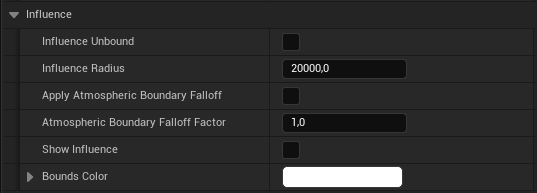
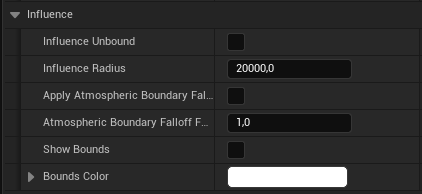
chore(docs): refresh docs

diff --git a/site/aero-sim/actors/index.html b/site/aero-sim/actors/index.html
@@ -998,9 +998,9 @@
 
 
 <h1 id="actors">Actors<a class="headerlink" href="#actors" title="Permanent link">&para;</a></h1>
-<p>This section provides an overview of the <strong>Aero Sim</strong> actor's and properties that affect the atmospheric composition.</p>
+<p>This section provides an overview of the <strong>Aero Sim</strong> actor's and properties that affect the atmospheric composiwidth="400"tion.</p>
 <h2 id="atmosphere">Atmosphere<a class="headerlink" href="#atmosphere" title="Permanent link">&para;</a></h2>
-<p><a class="glightbox" href="../../assets/images/aero-sim/atmosphere1.PNG" data-type="image" data-width="100%" data-height="auto" data-desc-position="bottom"><img alt="Atmosphere" src="../../assets/images/aero-sim/atmosphere1.PNG" width="500" /></a></p>
+<p><a class="glightbox" href="../../assets/images/aero-sim/atmosphere1.PNG" data-type="image" data-width="100%" data-height="auto" data-desc-position="bottom"><img alt="Atmosphere" src="../../assets/images/aero-sim/atmosphere1.PNG" /></a></p>
 <table>
 <thead>
 <tr>
@@ -1018,7 +1018,7 @@
 </tbody>
 </table>
 <h3 id="calculation-options">Calculation Options<a class="headerlink" href="#calculation-options" title="Permanent link">&para;</a></h3>
-<p><a class="glightbox" href="../../assets/images/aero-sim/atmosphere2.PNG" data-type="image" data-width="100%" data-height="auto" data-desc-position="bottom"><img alt="Calculation Options" src="../../assets/images/aero-sim/atmosphere2.PNG" width="500" /></a></p>
+<p><a class="glightbox" href="../../assets/images/aero-sim/atmosphere2.PNG" data-type="image" data-width="100%" data-height="auto" data-desc-position="bottom"><img alt="Calculation Options" src="../../assets/images/aero-sim/atmosphere2.PNG" /></a></p>
 <table>
 <thead>
 <tr>
@@ -1061,7 +1061,7 @@
 </tbody>
 </table>
 <h3 id="debug">Debug<a class="headerlink" href="#debug" title="Permanent link">&para;</a></h3>
-<p><a class="glightbox" href="../../assets/images/aero-sim/atmosphere3.PNG" data-type="image" data-width="100%" data-height="auto" data-desc-position="bottom"><img alt="Debug" src="../../assets/images/aero-sim/atmosphere3.PNG" width="500" /></a></p>
+<p><a class="glightbox" href="../../assets/images/aero-sim/atmosphere3.PNG" data-type="image" data-width="100%" data-height="auto" data-desc-position="bottom"><img alt="Debug" src="../../assets/images/aero-sim/atmosphere3.PNG" /></a></p>
 <table>
 <thead>
 <tr>
@@ -1079,7 +1079,7 @@
 </tbody>
 </table>
 <h3 id="composition">Composition<a class="headerlink" href="#composition" title="Permanent link">&para;</a></h3>
-<p><a class="glightbox" href="../../assets/images/aero-sim/atmosphere4.PNG" data-type="image" data-width="100%" data-height="auto" data-desc-position="bottom"><img alt="Composition" src="../../assets/images/aero-sim/atmosphere4.PNG" width="500" /></a></p>
+<p><a class="glightbox" href="../../assets/images/aero-sim/atmosphere4.PNG" data-type="image" data-width="100%" data-height="auto" data-desc-position="bottom"><img alt="Composition" src="../../assets/images/aero-sim/atmosphere4.PNG" /></a></p>
 <table>
 <thead>
 <tr>
@@ -1102,7 +1102,7 @@
 </tbody>
 </table>
 <h3 id="influence">Influence<a class="headerlink" href="#influence" title="Permanent link">&para;</a></h3>
-<p><a class="glightbox" href="../../assets/images/aero-sim/atmosphere5.PNG" data-type="image" data-width="100%" data-height="auto" data-desc-position="bottom"><img alt="Influence" src="../../assets/images/aero-sim/atmosphere5.PNG" width="500" /></a></p>
+<p><a class="glightbox" href="../../assets/images/aero-sim/atmosphere5.PNG" data-type="image" data-width="100%" data-height="auto" data-desc-position="bottom"><img alt="Influence" src="../../assets/images/aero-sim/atmosphere5.PNG" /></a></p>
 <table>
 <thead>
 <tr>
@@ -1133,7 +1133,7 @@
 <td>Determines the rate at which atmospheric effects decrease towards the outer boundary. Higher values result in a sharper decrease.</td>
 </tr>
 <tr>
-<td>Show Influence</td>
+<td>Show Bounds</td>
 <td>Boolean</td>
 <td>Determines whether to show the boundary area visually.</td>
 </tr>
@@ -1145,7 +1145,7 @@
 </tbody>
 </table>
 <h3 id="height">Height<a class="headerlink" href="#height" title="Permanent link">&para;</a></h3>
-<p><a class="glightbox" href="../../assets/images/aero-sim/atmosphere6.PNG" data-type="image" data-width="100%" data-height="auto" data-desc-position="bottom"><img alt="Height" src="../../assets/images/aero-sim/atmosphere6.PNG" width="500" /></a></p>
+<p><a class="glightbox" href="../../assets/images/aero-sim/atmosphere6.PNG" data-type="image" data-width="100%" data-height="auto" data-desc-position="bottom"><img alt="Height" src="../../assets/images/aero-sim/atmosphere6.PNG" /></a></p>
 <table>
 <thead>
 <tr>
@@ -1166,14 +1166,14 @@
 <td>Maximum altitude for atmospheric effects.</td>
 </tr>
 <tr>
-<td>Height Influence Factor</td>
+<td>Height Effect On Gas Factor</td>
 <td>Float</td>
-<td>Determines how much height affects the atmosphere composition.</td>
+<td>Determines how much height affects the gas concentration.</td>
 </tr>
 </tbody>
 </table>
 <h3 id="temperature">Temperature<a class="headerlink" href="#temperature" title="Permanent link">&para;</a></h3>
-<p><a class="glightbox" href="../../assets/images/aero-sim/atmosphere7.PNG" data-type="image" data-width="100%" data-height="auto" data-desc-position="bottom"><img alt="Temperature" src="../../assets/images/aero-sim/atmosphere7.PNG" width="500" /></a></p>
+<p><a class="glightbox" href="../../assets/images/aero-sim/atmosphere7.PNG" data-type="image" data-width="100%" data-height="auto" data-desc-position="bottom"><img alt="Temperature" src="../../assets/images/aero-sim/atmosphere7.PNG" /></a></p>
 <table>
 <thead>
 <tr>
@@ -1201,7 +1201,7 @@
 </tbody>
 </table>
 <h3 id="humidity">Humidity<a class="headerlink" href="#humidity" title="Permanent link">&para;</a></h3>
-<p><a class="glightbox" href="../../assets/images/aero-sim/atmosphere8.PNG" data-type="image" data-width="100%" data-height="auto" data-desc-position="bottom"><img alt="Humidity" src="../../assets/images/aero-sim/atmosphere8.PNG" width="500" /></a></p>
+<p><a class="glightbox" href="../../assets/images/aero-sim/atmosphere8.PNG" data-type="image" data-width="100%" data-height="auto" data-desc-position="bottom"><img alt="Humidity" src="../../assets/images/aero-sim/atmosphere8.PNG" /></a></p>
 <table>
 <thead>
 <tr>
@@ -1217,14 +1217,14 @@
 <td>Planets average humidity.</td>
 </tr>
 <tr>
-<td>Humidity Effect Factor</td>
+<td>Humidity Effect On Gas Factor</td>
 <td>Float</td>
 <td>Determines how much humidity affects the gas concentration.</td>
 </tr>
 </tbody>
 </table>
 <h3 id="gravity">Gravity<a class="headerlink" href="#gravity" title="Permanent link">&para;</a></h3>
-<p><a class="glightbox" href="../../assets/images/aero-sim/atmosphere9.PNG" data-type="image" data-width="100%" data-height="auto" data-desc-position="bottom"><img alt="Gravity" src="../../assets/images/aero-sim/atmosphere9.PNG" width="500" /></a></p>
+<p><a class="glightbox" href="../../assets/images/aero-sim/atmosphere9.PNG" data-type="image" data-width="100%" data-height="auto" data-desc-position="bottom"><img alt="Gravity" src="../../assets/images/aero-sim/atmosphere9.PNG" /></a></p>
 <table>
 <thead>
 <tr>
@@ -1240,14 +1240,14 @@
 <td>Planets average gravity.</td>
 </tr>
 <tr>
-<td>Gravity Effect Factor</td>
+<td>Gravity Effect On Gas Factor</td>
 <td>Float</td>
 <td>Determines how much gravity affects the gas concentration.</td>
 </tr>
 </tbody>
 </table>
 <h3 id="pressure">Pressure<a class="headerlink" href="#pressure" title="Permanent link">&para;</a></h3>
-<p><a class="glightbox" href="../../assets/images/aero-sim/atmosphere10.PNG" data-type="image" data-width="100%" data-height="auto" data-desc-position="bottom"><img alt="Pressure" src="../../assets/images/aero-sim/atmosphere10.PNG" width="500" /></a></p>
+<p><a class="glightbox" href="../../assets/images/aero-sim/atmosphere10.PNG" data-type="image" data-width="100%" data-height="auto" data-desc-position="bottom"><img alt="Pressure" src="../../assets/images/aero-sim/atmosphere10.PNG" /></a></p>
 <table>
 <thead>
 <tr>
@@ -1306,6 +1306,11 @@
 <td>Toggle to use the built-in visual representations.</td>
 </tr>
 <tr>
+<td>Show Bounds</td>
+<td>Boolean</td>
+<td>Determines whether to show the influence radius visually.</td>
+</tr>
+<tr>
 <td>Main Mesh</td>
 <td>Static Mesh</td>
 <td>The main mesh to represent the atmospheric source visually.</td>
@@ -1319,11 +1324,6 @@
 <td>FX Color</td>
 <td>FLinearColor</td>
 <td>Color of the visual effects for atmospheric influence.</td>
-</tr>
-<tr>
-<td>Show Influence Radius</td>
-<td>Boolean</td>
-<td>Determines whether to show the influence radius visually.</td>
 </tr>
 <tr>
 <td>Indicator Color</td>
@@ -1379,6 +1379,11 @@
 <td>Toggle to use the built-in visual representations.</td>
 </tr>
 <tr>
+<td>Show Bounds</td>
+<td>Boolean</td>
+<td>Determines whether to show the influence radius visually.</td>
+</tr>
+<tr>
 <td>Main Mesh</td>
 <td>Static Mesh</td>
 <td>The main mesh to represent the atmospheric source visually.</td>
@@ -1392,11 +1397,6 @@
 <td>FX Color</td>
 <td>FLinearColor</td>
 <td>Color of the visual effects for atmospheric influence.</td>
-</tr>
-<tr>
-<td>Show Influence Radius</td>
-<td>Boolean</td>
-<td>Determines whether to show the influence radius visually.</td>
 </tr>
 <tr>
 <td>Indicator Color</td>
@@ -1452,6 +1452,11 @@
 <td>Toggle to use the built-in visual representations.</td>
 </tr>
 <tr>
+<td>Show Bounds</td>
+<td>Boolean</td>
+<td>Determines whether to show the influence radius visually.</td>
+</tr>
+<tr>
 <td>Main Mesh</td>
 <td>Static Mesh</td>
 <td>The main mesh to represent the atmospheric source visually.</td>
@@ -1465,11 +1470,6 @@
 <td>FX Color</td>
 <td>FLinearColor</td>
 <td>Color of the visual effects for atmospheric influence.</td>
-</tr>
-<tr>
-<td>Show Influence Radius</td>
-<td>Boolean</td>
-<td>Determines whether to show the influence radius visually.</td>
 </tr>
 <tr>
 <td>Indicator Color</td>
@@ -1525,6 +1525,11 @@
 <td>Toggle to use the built-in visual representations.</td>
 </tr>
 <tr>
+<td>Show Bounds</td>
+<td>Boolean</td>
+<td>Determines whether to show the influence radius visually.</td>
+</tr>
+<tr>
 <td>Main Mesh</td>
 <td>Static Mesh</td>
 <td>The main mesh to represent the atmospheric source visually.</td>
@@ -1538,11 +1543,6 @@
 <td>FX Color</td>
 <td>FLinearColor</td>
 <td>Color of the visual effects for atmospheric influence.</td>
-</tr>
-<tr>
-<td>Show Influence Radius</td>
-<td>Boolean</td>
-<td>Determines whether to show the influence radius visually.</td>
 </tr>
 <tr>
 <td>Indicator Color</td>
@@ -1598,6 +1598,11 @@
 <td>Toggle to use the built-in visual representations.</td>
 </tr>
 <tr>
+<td>Show Bounds</td>
+<td>Boolean</td>
+<td>Determines whether to show the influence radius visually.</td>
+</tr>
+<tr>
 <td>Main Mesh</td>
 <td>Static Mesh</td>
 <td>The main mesh to represent the atmospheric source visually.</td>
@@ -1611,11 +1616,6 @@
 <td>FX Color</td>
 <td>FLinearColor</td>
 <td>Color of the visual effects for atmospheric influence.</td>
-</tr>
-<tr>
-<td>Show Influence Radius</td>
-<td>Boolean</td>
-<td>Determines whether to show the influence radius visually.</td>
 </tr>
 <tr>
 <td>Indicator Color</td>
@@ -1661,6 +1661,11 @@
 <td>Toggle to use the built-in visual representations.</td>
 </tr>
 <tr>
+<td>Show Bounds</td>
+<td>Boolean</td>
+<td>Determines whether to show the influence radius visually.</td>
+</tr>
+<tr>
 <td>Main Mesh</td>
 <td>Static Mesh</td>
 <td>The main mesh to represent the atmospheric source visually.</td>
@@ -1674,11 +1679,6 @@
 <td>FX Color</td>
 <td>FLinearColor</td>
 <td>Color of the visual effects for atmospheric influence.</td>
-</tr>
-<tr>
-<td>Show Influence Radius</td>
-<td>Boolean</td>
-<td>Determines whether to show the influence radius visually.</td>
 </tr>
 <tr>
 <td>Indicator Color</td>
